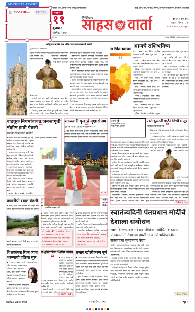
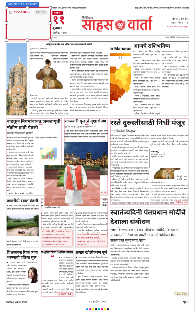
The accent marks are not ink, and दिनविशेष says when it has nothing
Two of the desk's eight reports, both measured before and after.

THE ACCENT MARKS ARE NOT INK. `*word*` is the headline's one hand-marked
emphasis and accent.js strips the asterisks before anything is drawn -
render.js, the .sla and the PDF all paint the SEGMENTS. But measure2() in
compose.js measured them as ordinary characters, so the band was broken, SIZED
and centred around two glyphs the reader never sees.

Measured on a 400px block, the same headline both ways: 26.5px plain against
24.5px accented. An accented headline was set two pixels smaller than the
identical plain one, and a centred line sat off its own words - by more
wherever the invisible width pushed a word onto the next line. That is the
desk's "making headline align center is counting * also".

Only the WIDTH ignores them. `text` and `at` keep the asterisks, so render.js
still finds a phrase split across a line break and a display mark still lands
on the character it was set on. The test fails against the old line.

दिनविशेष HAS TO SAY WHEN IT HAS NOTHING. Its table covers 70 of 366 days, so
on four days out of five build() returned `{ empty: true }` - and the workspace
only stops on `result.error`, so the panel went on and built a card with no
entries in it. The desk pressed Generate, got a proposal holding nothing, and
could not accept it: "sometimes it returns 0 characters to accept". It returns
a Marathi refusal now, for the same reason the retrieval refusals are in
[…]

Changed region(s): [[0.5538, 0.375, 0.9846, 0.6635]]

diff --git a/tests/copyFit.test.js b/tests/copyFit.test.js
@@ -484,3 +484,42 @@ test('a stored row with no proposal composes exactly as it did before', async ()
   const withRowsOwnByline = await copyFit.measureFit(section, [], { author: 'पाटील', location: 'सातारा' });
   assert.equal(withRowsOwnByline.composed.fingerprint, withoutOverride.composed.fingerprint);
 });
+
+// THE ACCENT MARKS ARE NOT INK.
+//
+// `*word*` is the headline's one hand-marked emphasis. `accent.js` strips the
+// asterisks before anything is drawn - render.js, the .sla and the PDF all
+// paint the SEGMENTS - but the compositor measured them as ordinary
+// characters, so the band was broken, SIZED and centred around two glyphs the
+// reader never sees.
+//
+// The desk's report was "making headline align center is counting * also".
+// Measured on a 400px block: the same headline resolved to 26.5px plain and
+// 24.5px accented, so an accented headline was set two pixels smaller than the
+// identical plain one, and a centred line sat off its own words.
+test('a headline is measured, sized and centred on the words, not on its accent marks', async () => {
+  const adapter = await import('../public/editor/compose/section-adapter.js');
+  const section = {
+    width_px: 400, height_px: 300, margin_px: 1, line_height: 1.45,
+    headline_font_px: 24, subheading_font_px: 13, body_font_px: 6.4,
+    headline_align: 'center', show_dateline: false,
+  };
+  const band = (headline) => adapter.composeSection(
+    section, { headline, subheading: '', body: '', author: '', location: '' },
+  ).bands.headline;
+
+  const plain = band('सातारा जिल्ह्यात नवीन योजना जाहीर');
+  const accented = band('सातारा जिल्ह्यात नवीन योजना *जाहीर*');
+
+  assert.equal(accented.resolvedPx, plain.resolvedPx,
+    'the marks must not change the size the headline is set at');
+  assert.equal(accented.lines.length, plain.lines.length,
+    'nor how many lines it takes');
+  assert.equal(accented.lines[0].width.toFixed(2), plain.lines[0].width.toFixed(2),
+    'nor its drawn width - the asterisks are never drawn');
+  assert.equal(accented.lines[0].x.toFixed(2), plain.lines[0].x.toFixed(2),
+    'so a centred line sits in exactly the same place');
+  // The text itself KEEPS the marks: render.js finds the phrase through them,
+  // and a display mark still lands on the character it was set on.
+  assert.ok(accented.lines[0].text.includes('*'));
+});

diff --git a/public/editor/compose/compose.js b/public/editor/compose/compose.js
@@ -553,8 +553,24 @@ function setDisplayFlow(text, {
   // 5-8% wider than its regular ghost, so measuring the whole flow at one
   // weight would reserve the wrong measure for the line it lands on. With no
   // marks this is the plain measurement it always was.
+  //
+  // AND THE ACCENT MARKS ARE NOT INK. `*word*` is the headline's one
+  // hand-marked emphasis, and `accent.js` strips the asterisks before
+  // anything is drawn - render.js, the .sla and the PDF all paint the
+  // SEGMENTS, never the marks. This measured them as ordinary characters, so
+  // the band was broken, SIZED and centred around two glyphs the reader never
+  // sees. Measured on a 400 px block, the same headline: 26.5 px without the
+  // marks, 24.5 px with them - an accented headline was set two pixels
+  // smaller than the identical plain one - and a centred line sat off its own
+  // words, by more wherever the invisible width pushed a word to the next
+  // line. That is the desk's "making headline align center is counting * too".
+  //
+  // Only the WIDTH ignores them. `text` and `at` keep the asterisks, so
+  // render.js still finds the phrase across a line break and a display mark
+  // still lands on the character it was set on.
   function measure2(t, at, px, fam, w) {
-    return measurePieceWidth(t, at, px, fam, w, marks, letterSpacingPx);
+    const drawn = t.includes('*') ? t.replace(/\*/g, '') : t;
+    return measurePieceWidth(drawn, at, px, fam, w, marks, letterSpacingPx);
   }
 }
 

diff --git a/src/features/dinvishesh.js b/src/features/dinvishesh.js
@@ -123,7 +123,24 @@ async function build(isoDate) {
   // Nothing checked for this date is not a failure - it just means the box is
   // not run today, which is exactly what a desk would do rather than fill it
   // with something unverified.
-  if (!entries) return { empty: true, title: 'आजचा दिनविशेष' };
+  //
+  // BUT IT HAS TO SAY SO. `{ empty: true }` carried no `error`, and the
+  // workspace only stops on `result.error` - so the panel went on and built a
+  // card with no entries in it. The desk pressed Generate, got a proposal
+  // holding nothing, and could not accept it: "sometimes it returns 0
+  // characters to accept". This table covers 70 of 366 days, so that was the
+  // ordinary case on four days out of five, not an edge one.
+  //
+  // The sentence is Marathi for the same reason the retrieval refusals are:
+  // it is about a newspaper going to press, not a form-field error.
+  if (!entries) {
+    return {
+      empty: true,
+      title: 'आजचा दिनविशेष',
+      error: 'या तारखेसाठी पडताळलेली दिनविशेष नोंद उपलब्ध नाही. '
+        + 'नोंद तपासून dinvishesh.js मध्ये जोडा, किंवा या जागी दुसरे सदर निवडा.',
+    };
+  }
 
   return {
     title: 'आजचा दिनविशेष',

diff --git a/CLAUDE.md b/CLAUDE.md
@@ -3743,6 +3743,45 @@ read the shared catalogue; do not reintroduce a local 10/16 px default.
 The schema migration changes the default only. Existing `body_font_px` values
 may be explicit desk choices and are never mass-backfilled.
 
+### The accent marks are not ink
+
+`*word*` is the headline's one hand-marked emphasis, and `accent.js` strips the
+asterisks before anything is drawn — `render.js`, the `.sla` and the PDF all
+paint the SEGMENTS, never the marks. But `measure2()` in `compose.js` measured
+them as ordinary characters, so the band was broken, **sized** and centred
+around two glyphs the reader never sees.
+
+Measured on a 400 px block, the same headline both ways:
+
+| | plain | accented |
+|---|---|---|
+| resolved size | **26.5 px** | **24.5 px** |
+| drawn width | 380.9 | 381.9 |
+
+So an accented headline was set two pixels smaller than the identical plain
+one, and a centred line sat off its own words — by more wherever the invisible
+width pushed a word onto the next line. That is the desk's *"making headline
+align center is counting `*` also"*.
+
+Only the WIDTH ignores them. `text` and `at` keep the asterisks, so `render.js`
+still finds a phrase split across a line break and a display mark still lands
+on the character it was set on.
+
+### दिनविशेष has to say when it has nothing
+
+The table covers **70 of 366 days**, so on four days out of five `build()`
+returned `{ empty: true }` — and the workspace only stops on `result.error`, so
+the panel went on and built a card with no entries in it. The desk pressed
+Generate, got a proposal holding nothing, and could not accept it: *"sometimes
+it returns 0 characters to accept"*. It returns a Marathi refusal now, for the
+same reason the retrieval refusals are in Marathi — it is about a newspaper
+going to press, not a form-field error.
+
+**The coverage itself is curated data and is still thin.** Every entry is one a
+person has checked, because a wrong year is a falsehood printed over the
+masthead; the box wants more dates, added by a desk against its own reference,
+not generated.
+
 ### A panel's frame is the BLOCK's, not the payload's
 
 Found by building one block carrying every device the editor offers — 620×680,
